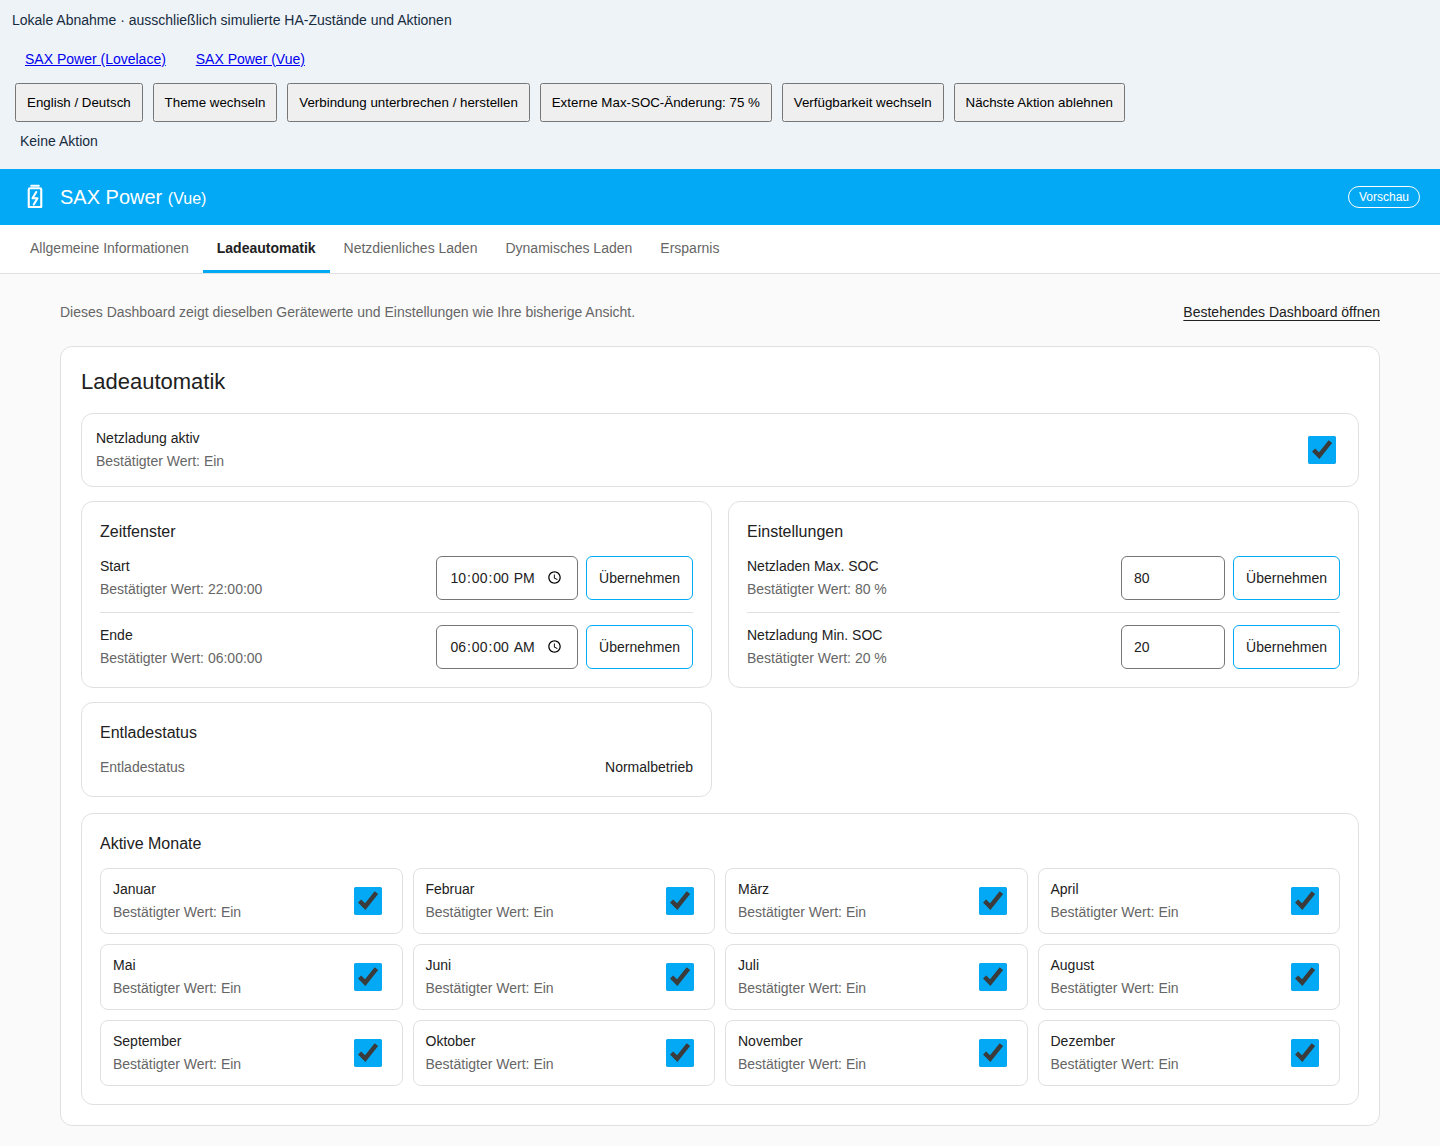
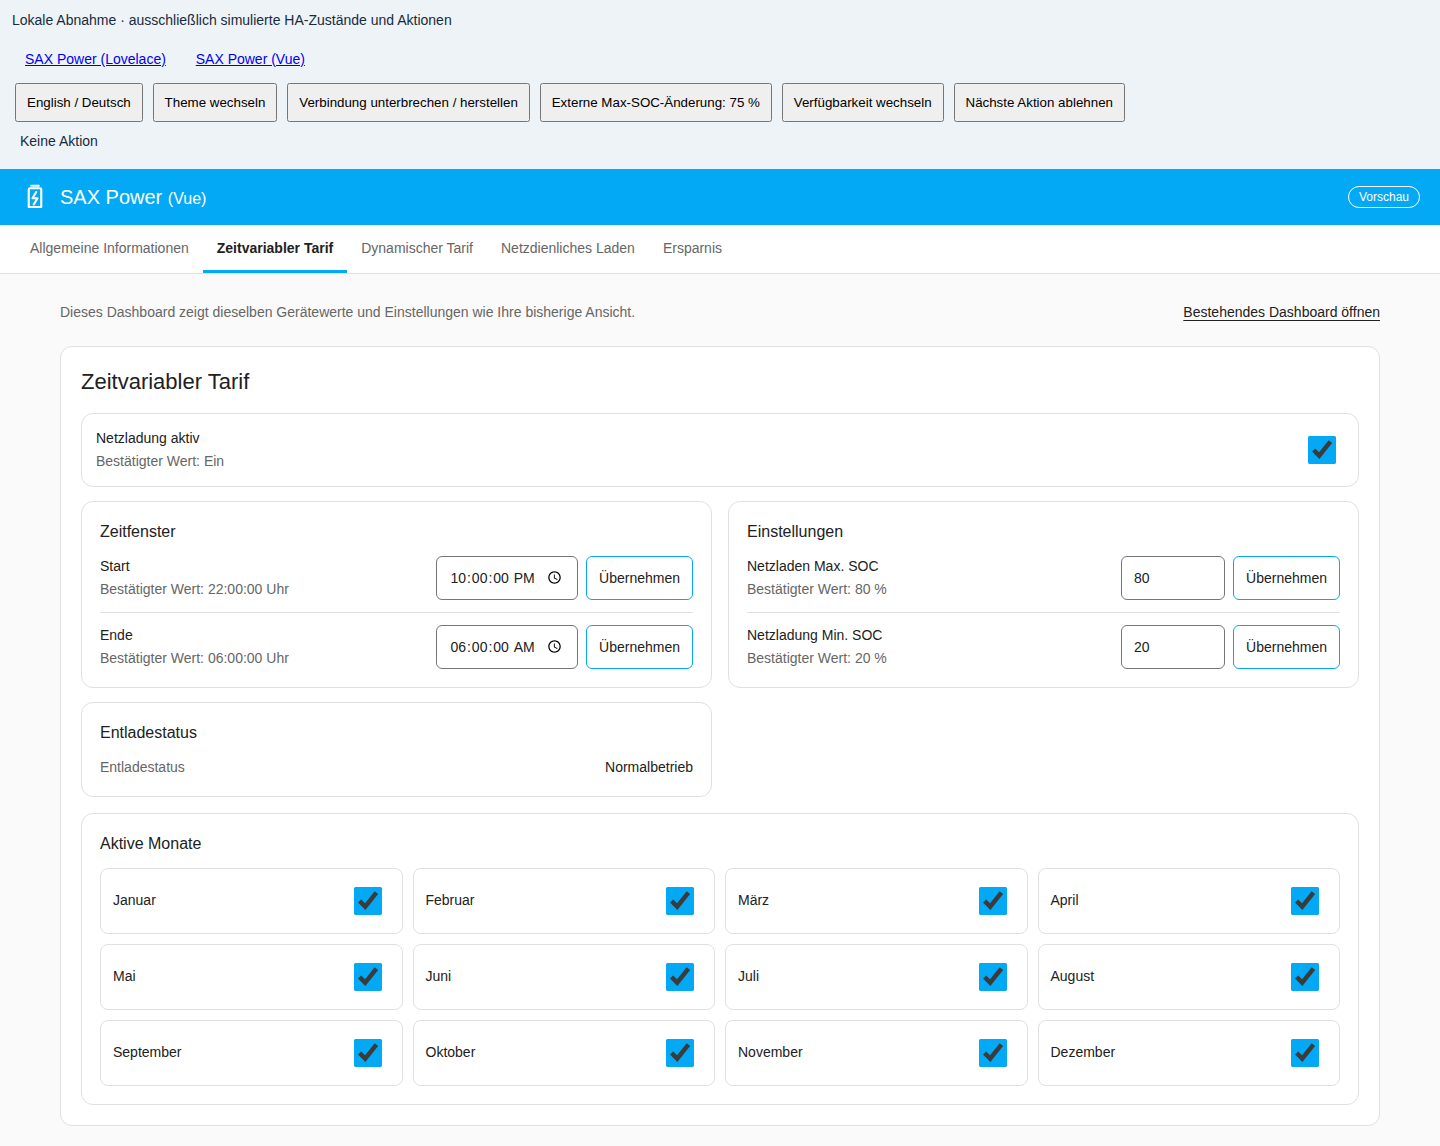
Belege die Tarifansichten mit aktuellen Browsernachweisen

diff --git a/docs/vue-dashboard-parity.md b/docs/vue-dashboard-parity.md
@@ -229,6 +229,35 @@ nicht benötigt. Das JSON-Ergebnis enthält Manifestversion, ZIP-SHA-256,
 Asset-SHA-256, Dateianzahl und Ergebnis. Die JS-Ausführung selbst wird separat
 im Produktionsmodul- und Browserlauf geprüft.
 
+### Abnahme der Tarif-Tabnamen und Anzeigeänderungen vom 12.09.2026
+
+Der Code aus
+[Commit 936eaeae6c97](https://github.com/dr-dimitri/sax-ha/commit/936eaeae6c972fe99e53f2f6d40af58ded6a80ab)
+bestand den vollständigen
+[CI-Lauf 34685941171](https://github.com/dr-dimitri/sax-ha/actions/runs/34685941171).
+Der Browserbericht gehört zum zugehörigen PR-Testmerge `8f37e3d8cad` und weist
+**28 bestandene Browserfälle, keine Fehler, keine erst nach Wiederholung
+bestandenen Fälle und keine übersprungenen Fälle** aus. Die vier Browserprojekte
+prüfen Deutsch/hell und Englisch/dunkel auf Desktop und Smartphone.
+
+Geprüft sind die neuen Tabnamen **Zeitvariabler Tarif / Time-of-use tariff**
+und **Dynamischer Tarif / Dynamic tariff**, die Reihenfolge mit dem dynamischen
+Tarif vor netzdienlichem Laden und die weiterhin unveränderten URL-Pfade.
+Die beiden Monatsraster zeigen keine zusätzliche Bestätigter-Wert-Zeile;
+Kontrollkästchen, Bedienung und HA-Rückmeldungen bleiben erhalten. Nur bestätigte
+deutsche Zeitfensterwerte des zeitvariablen Tarifs erhalten „ Uhr“.
+Komponententests prüfen außerdem unbekannte/nicht verfügbare Werte sowie
+unveränderte Eingaben und Service-Payloads.
+
+Für diesen Stand bestanden **202 Komponententests** sowie die lokale
+Python-Gesamtsuite mit **1.813 Tests und zwei erwarteten Hardware-Skips**.
+Typprüfung, Formatierung, Ruff/Black, Produktionsmodul-Smoke und reproduzierbarer
+Build waren erfolgreich. Die Browser verwenden das gebaute Produktionsmodul
+mit simuliertem HA-Kontext; an einer physischen Batterie wurde nicht getestet.
+Die isolierte Prüfung des abschließenden Snapshot-Pakets wird mit dessen
+Commit und Prüfsummen im [PR #204](https://github.com/dr-dimitri/sax-ha/pull/204)
+festgehalten.
+
 ### Frühere Abnahme der kompakten Desktopansichten
 
 Dieser Nachweis vom 12.09.2026 verwendet die damaligen Tabnamen und betrifft
@@ -326,15 +355,15 @@ Config-Entry-Laden, Panel und Issue Registry sind echt. Die anschließend erneut
 ausgeführte lokale Gesamtsuite ergab **1.813 bestandene Tests und zwei erwartete
 Hardware-Skips**; Ruff und Black sind erfolgreich.
 
-### Screenshots des bisherigen Stands
+### Aktuelle Screenshots
 
-Alle Bilder wurden aus CI-Lauf 34684553344 vom 12.09.2026 übernommen. Sie
-dokumentieren den Stand vor den neuen Tabnamen, ihrer Reihenfolge und den
-Änderungen an Monatsrastern und bestätigten Zeitfensterwerten. Die Bildtitel
-verwenden deshalb die damaligen Namen; sie belegen diese neuen Änderungen
-noch nicht. Die Bilder zeigen die kompakten Desktopansichten und die weiterhin
-geräumige Mobilansicht. Der
-hell abgesetzte Testbereich kennzeichnet simulierte Daten und zeigt beide
+Alle Bilder stammen aus dem Browserbericht von
+[CI-Lauf 34685941171](https://github.com/dr-dimitri/sax-ha/actions/runs/34685941171)
+vom 12.09.2026. Sie zeigen die neuen Tabnamen und ihre Reihenfolge, die
+Monatsraster ohne zusätzliche Bestätigter-Wert-Zeile und das deutsche
+Uhr-Suffix im Zeitfenster. Die kompakten Desktopansichten und die geräumige
+Mobilansicht bleiben erhalten. Der hell abgesetzte Testbereich kennzeichnet
+simulierte Daten und zeigt beide
 Dashboard-Einstiege; der Link innerhalb des Vue-Panels führt ebenfalls zu
 Lovelace. Die native Darstellung von Zeit- und Datumsfeldern folgt dem Browser,
 während Beschriftungen und bestätigte Werte die HA-Sprache verwenden.
@@ -344,9 +373,9 @@ während Beschriftungen und bestätigte Werte die HA-Sprache verwenden.
 | Allgemeine Informationen | [Screenshot](images/vue-allgemein-desktop-light-de.png) | [Screenshot](images/vue-allgemein-mobile-dark-en.png) |
 | Speicher ausschalten – Bestätigung | [Screenshot](images/vue-storage-confirm-off-desktop-light-de.png) | [Screenshot](images/vue-storage-confirm-off-mobile-dark-en.png) |
 | Speicher einschalten – Bestätigung | [Screenshot](images/vue-storage-confirm-on-desktop-light-de.png) | [Screenshot](images/vue-storage-confirm-on-mobile-dark-en.png) |
-| Ladeautomatik | [Screenshot](images/vue-ladeautomatik-desktop-light-de.png) | [Screenshot](images/vue-ladeautomatik-mobile-dark-en.png) |
+| Zeitvariabler Tarif | [Screenshot](images/vue-ladeautomatik-desktop-light-de.png) | [Screenshot](images/vue-ladeautomatik-mobile-dark-en.png) |
+| Dynamischer Tarif | [Screenshot](images/vue-dynamisches-laden-desktop-light-de.png) | [Screenshot](images/vue-dynamisches-laden-mobile-dark-en.png) |
 | Netzdienliches Laden | [Screenshot](images/vue-netzdienliches-laden-desktop-light-de.png) | [Screenshot](images/vue-netzdienliches-laden-mobile-dark-en.png) |
-| Dynamisches Laden | [Screenshot](images/vue-dynamisches-laden-desktop-light-de.png) | [Screenshot](images/vue-dynamisches-laden-mobile-dark-en.png) |
 | Ersparnis | [Screenshot](images/vue-ersparnis-desktop-light-de.png) | [Screenshot](images/vue-ersparnis-mobile-dark-en.png) |
 
 <details>
@@ -354,11 +383,11 @@ während Beschriftungen und bestätigte Werte die HA-Sprache verwenden.
 
 ![Allgemeine Informationen mit simulierten HA-Daten](images/vue-allgemein-desktop-light-de.png)
 
-![Ladeautomatik mit simulierten HA-Daten](images/vue-ladeautomatik-desktop-light-de.png)
+![Zeitvariabler Tarif mit simulierten HA-Daten](images/vue-ladeautomatik-desktop-light-de.png)
+
+![Dynamischer Tarif mit simulierten HA-Daten](images/vue-dynamisches-laden-desktop-light-de.png)
 
 ![Netzdienliches Laden mit simulierten HA-Daten](images/vue-netzdienliches-laden-desktop-light-de.png)
-
-![Dynamisches Laden mit simulierten HA-Daten](images/vue-dynamisches-laden-desktop-light-de.png)
 
 ![Ersparnis mit simulierten HA-Daten](images/vue-ersparnis-desktop-light-de.png)
 
